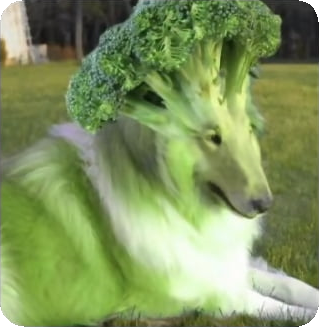
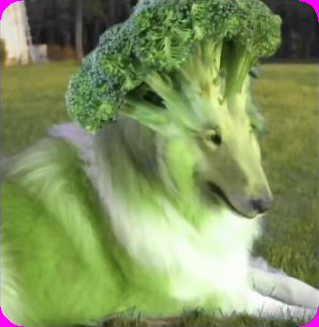
Fixed colour values of images and added image scaling
I removed the alpha channel because it was messing stuff up, now the colour key will actually not be rendered.
Images can now be scaled, it seems to work nice.

diff --git a/src/com/erik/engine/GameObject.java b/src/com/erik/engine/GameObject.java
@@ -2,29 +2,35 @@ package com.erik.engine;
 
 import java.awt.Rectangle;
 
+import com.erik.engine.gfx.Image;
+
 public class GameObject {
 	public Vector2 position;
 	public Vector2 velocity = Vector2.zero();
 	public Vector2 scale;
 	public int colour = 0xffffff;
-	public double opacity = 1.0;
-	public int layer = 0;
+	
+	private double opacity = 1.0;
+	private int layer = 0;
+	
+	private Image image;
+	private boolean hasImage = false;
 	
 	private Scene scene;
 	//private int index;
 	
+	private double mass;
+	
 	public GameObject(Scene scene, float x, float y, int w, int h) {
-		//this.scene = scene;
 		position = new Vector2(x, y);
 		scale = new Vector2(w, h);
-		this.scene.addGameObject(this);
+		scene.addGameObject(this);
 	}
 	
 	public GameObject(Scene scene, Vector2 position, Vector2 scale) {
-		//this.scene = scene;
 		this.position = position;
 		this.scale = scale;
-		this.scene.addGameObject(this);
+		scene.addGameObject(this);
 	}
 	
 	public GameObject(float x, float y, int w, int h) {
@@ -39,6 +45,7 @@ public class GameObject {
 	
 	public void update(double delta) {
 		
+		
 		position.add(velocity.multiplied(delta));
 	}
 	
@@ -46,11 +53,31 @@ public class GameObject {
 		//graphics.setColor(Color.white);
 		//graphics.fillRect((int) position.x, (int) position.y, (int) scale.x, (int) scale.y);
 		
+		if (hasImage) {
+			renderer.renderImage(image, (int) position.x, (int) position.y);
+			return;
+		}
+		
 		renderer.renderRectangle((int) position.x, (int) position.y, (int) scale.x, (int) scale.y, colour, opacity);
 	}
 	
 	public void destroy() {
 		scene.removeGameObject(this);
+	}
+	
+	public Image getImage() {
+		return image;
+	}
+	
+	public void setImage(Image image) {
+		if (image.getWidth() == scale.x && image.getHeight() == scale.y) {
+			this.image = image;
+			hasImage = true;
+			return;
+		}
+		
+		this.image = image.getScaled((int) scale.x, (int) scale.y);
+		hasImage = true;
 	}
 	
 	public int getLayer() {
@@ -60,6 +87,25 @@ public class GameObject {
 	public void setLayer(int layer) {
 		if (layer < 0) return;
 		scene.changeGameObjectLayer(this, layer);
+	}
+	
+	public double getOpacity() {
+		return opacity;
+	}
+	
+	public void setOpacity(double opacity) {
+		// not sure if i should clamp or ignore if opacity < 0 || opacity > 1
+		this.opacity = Math.min(Math.max(opacity, 0.0), 1.0);
+	}
+	
+	public double getMass() {
+		return mass;
+	}
+	
+	public void setMass(double mass) {
+		// not sure if i should clamp or ignore if mass < 0
+		if (mass < 0.0) return;
+		this.mass = mass;
 	}
 
 	public Rectangle getRect() {

diff --git a/src/com/erik/engine/gfx/Image.java b/src/com/erik/engine/gfx/Image.java
@@ -18,16 +18,47 @@ public class Image {
 		
 		try {
 			image = ImageIO.read(new FileInputStream("res/" + path));	
+			process(image);
 		}
 		catch (IOException e) {
 			e.printStackTrace();
 		}
-		
+	}
+	
+	public Image(BufferedImage image) {
+		process(image);
+	}
+	
+	private void process(BufferedImage image) {
 		width = image.getWidth();
 		height = image.getHeight();
 		pixels = image.getRGB(0, 0, width, height, null, 0, width);
 		
+		// remove alpha channel
+		for (int i = 0; i < pixels.length; i++) {
+			pixels[i] &= 0x00ffffff;
+		}
+		
 		image.flush();
+	}
+	
+	public Image getScaled(int width, int height) {
+		BufferedImage newImage = new BufferedImage(width, height, BufferedImage.TYPE_INT_RGB);
+		
+		int w = getWidth();
+		int h = getHeight();
+		
+		for (int x = 0; x < width; x++) {
+			int newX = x * w / width;
+			
+			for (int y = 0; y < height; y++) {
+				int newY = y * h / height;
+				int colour = pixels[newX + newY * w];
+				newImage.setRGB(x, y, colour);
+			}
+		}
+		
+		return new Image(newImage);
 	}
 
 	public int getWidth() {

diff --git a/src/com/erik/engine/Game.java b/src/com/erik/engine/Game.java
@@ -17,7 +17,7 @@ public class Game implements Runnable {
 	private Thread thread;
 
 	private boolean running = false;
-	private double maxFPS = 75.0f;
+	private double maxFPS = 60.0f;
 	
 	float scale = 1.0f;
 	
@@ -43,10 +43,10 @@ public class Game implements Runnable {
         int refreshRate = dm.getRefreshRate();
         
         if (refreshRate == DisplayMode.REFRESH_RATE_UNKNOWN) {
-            System.out.println("Refresh rate is unknown, using 60 as maximum FPS");
+            System.out.println("Refresh rate is unknown, using " + (int) maxFPS + " as maximum FPS");
         }
         else {
-            //maxFPS = (double) refreshRate;
+            maxFPS = (double) refreshRate;
             System.out.println("Refresh rate: " + refreshRate + " Hz");
         }
         

diff --git a/src/com/erik/engine/Renderer.java b/src/com/erik/engine/Renderer.java
@@ -35,6 +35,8 @@ public class Renderer {
 	}
 	
 	public void addToPixelNoChecks(int x, int y, int value, double opacity) {
+		if (value == colourKey) return;
+		
 		int r = (value & 0xff0000) >> 16;
 		int g = (value & 0x00ff00) >> 8;
 		int b = value & 0x0000ff;
@@ -74,6 +76,12 @@ public class Renderer {
 		
 		for (int _x = startX; _x < newW; _x++) {
 			for (int _y = startY; _y < newH; _y++) {
+				if (pixels[_x + _y * imgWidth] < 0) {
+					//System.out.println(pixels[_x + _y * imgWidth] + " below zero");
+				}
+				if (colourKey == pixels[_x + _y * imgWidth]) {
+					//System.out.println(pixels[_x + _y * imgWidth] + " equals colour key");
+				}
 				setPixelNoChecks(x + _x, y + _y, pixels[_x + _y * imgWidth]);
 			}
 		}

diff --git a/src/com/erik/engine/Scene.java b/src/com/erik/engine/Scene.java
@@ -3,6 +3,8 @@ package com.erik.engine;
 import java.util.ArrayList;
 
 public class Scene {
+	public double gravity = 9.8;
+	
 	private ArrayList<ArrayList<GameObject>> layers = new ArrayList<ArrayList<GameObject>>();
 	
 	public ArrayList<GameObject> getGameObjects() {
@@ -30,12 +32,12 @@ public class Scene {
 		
 		//gameObject.setIndex(layers.get(layer).size());
 		layers.get(layer).add(gameObject);
+		gameObject.setScene(this);
 	}
 	
 	public void addGameObjects(GameObject... gameObjects) {
 		for (GameObject gameObject : gameObjects) {
 			addGameObject(gameObject);
-			gameObject.setScene(this);
 		}
 	}
 	

diff --git a/src/com/erik/game/Main.java b/src/com/erik/game/Main.java
@@ -6,6 +6,7 @@ import com.erik.engine.Colour;
 import com.erik.engine.Game;
 import com.erik.engine.GameObject;
 import com.erik.engine.Vector2;
+import com.erik.engine.gfx.Image;
 
 public class Main {
 	public static void main(String[] args) {
@@ -17,6 +18,9 @@ public class Main {
 		
 		GameObject test1 = new GameObject(new Vector2(350, 200), new Vector2(200, 200));
 		test1.colour = Colour.blue;
+		
+		GameObject test2 = new GameObject(game.getScene(), new Vector2(600, 250), new Vector2(300, 200));
+		test2.setImage(new Image("dog.png"));
 		
 		game.getScene().addGameObjects(test0, test1);
 		
